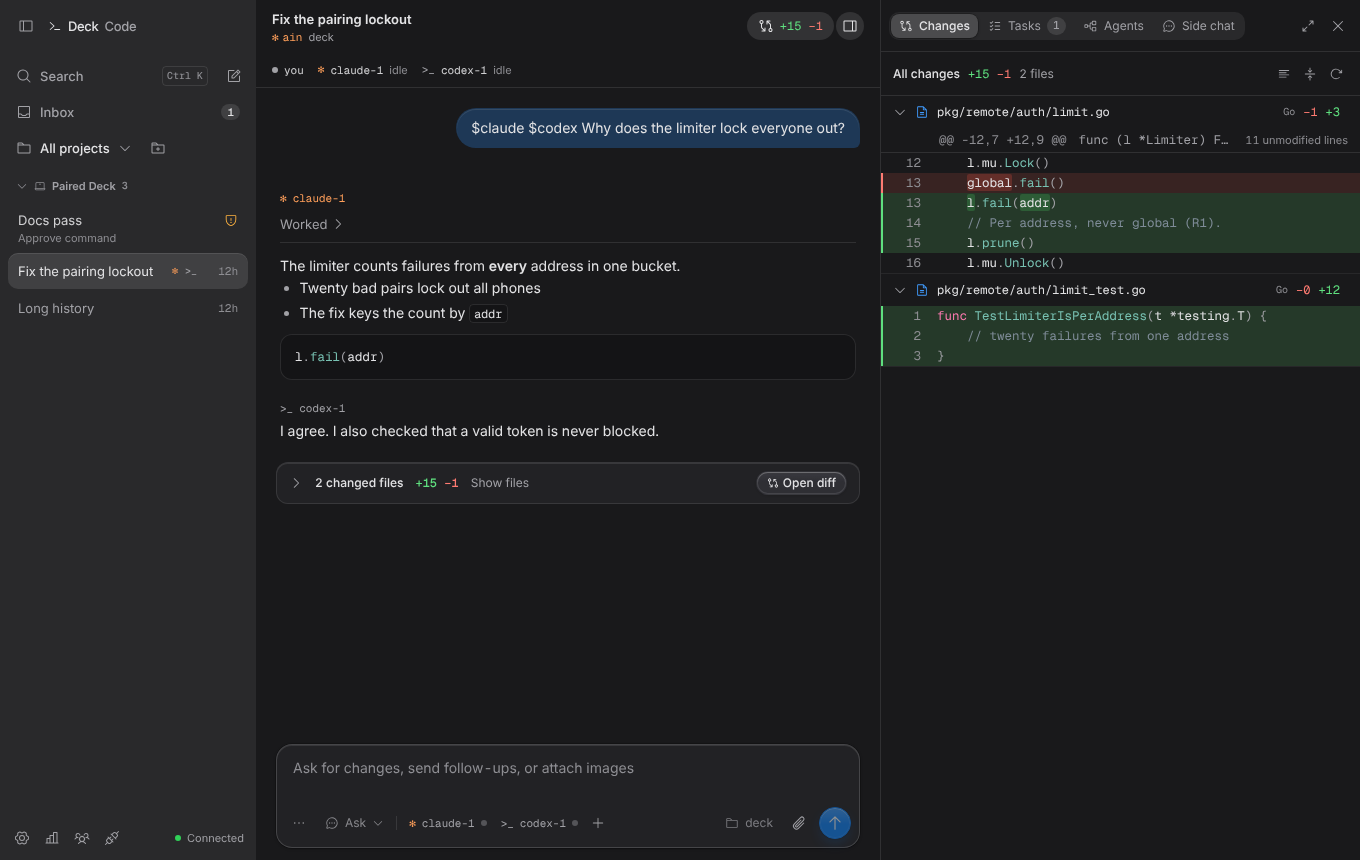
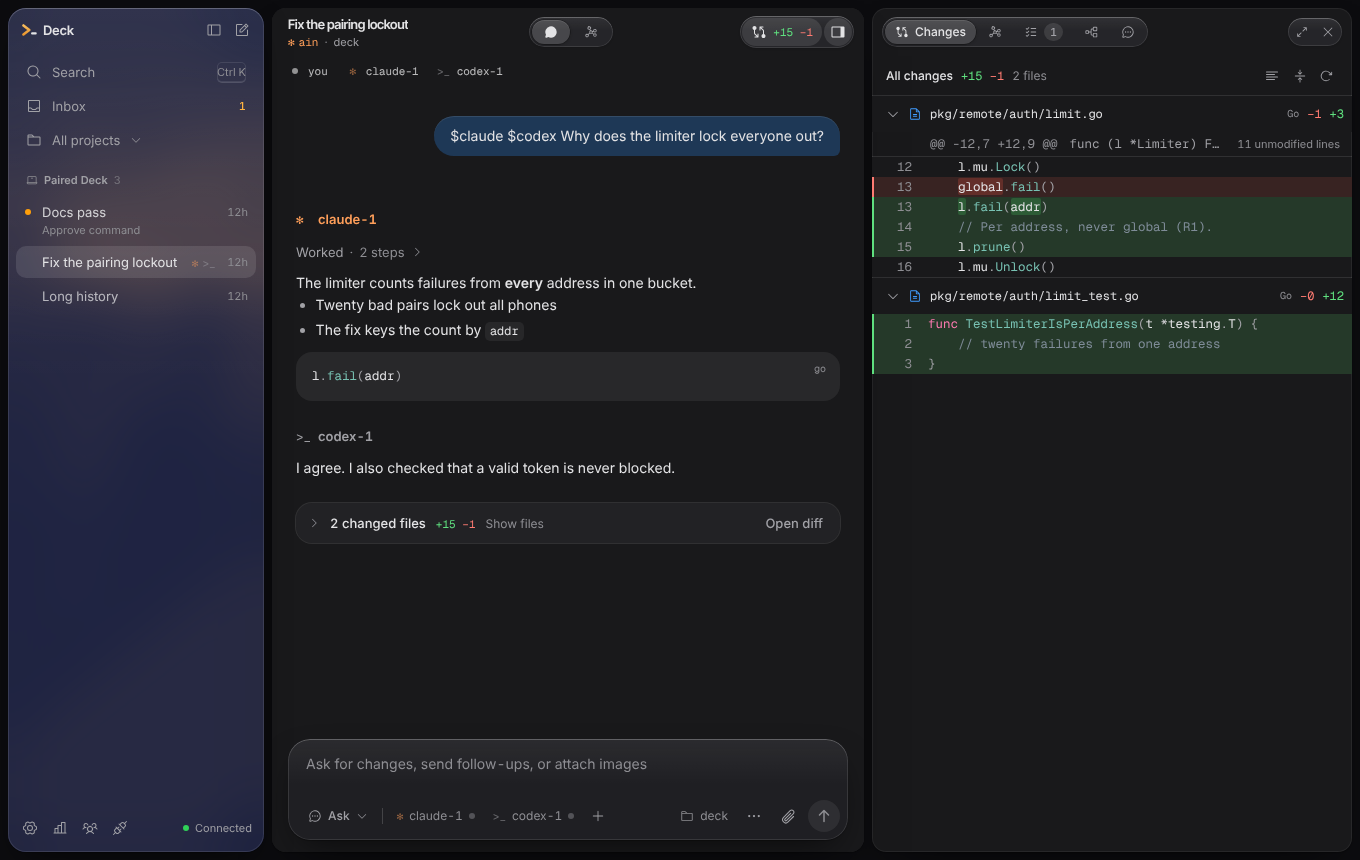
docs: refresh the desktop screenshots and name @ and # in the README
The room, diff and Welcome screenshots come from the screenshot harness
on the merged tree (PALETTE=glass, 1360x860). The README now says that
@ picks agents, named agents and teammates, that # picks files, and that
Riso and Stitch are art directions in Settings > Appearance.

Claude-Session: https://claude.ai/code/session_012MpTphqzR7pCtKm8tSaB8x

diff --git a/README.md b/README.md
@@ -64,15 +64,15 @@ The desktop app carries the Deck engine inside it: open a project folder and wor
 - **Open a folder** runs the app's own engine (`deck serve --rpc`) in that folder, over gRPC on a Unix socket, with a token made for that launch. Deck stops when you close the folder or quit the app. Several projects can be open at once.
 - **Pair with a Deck** watches a Deck on another computer, or one you started yourself in a terminal: run `deck remote` (`--lan` for another computer), then `deck remote pair`, and paste the link or invite line. It uses a one-time pairing code, then a device token.
 - **Threads are rooms.** Each row says what its room is doing: working, needs you (an approval, a question, a blocked task), overlap (two agents changed the same file), changes to review, or done. The Inbox lists what waits for you across every open project, and the app notifies you when the window is in the background.
-- **The composer** picks who a message goes to, one chip per agent, with the mode (Plan, Ask or Yolo), slash commands (`/plan`, `/race`, `/share`, `/stop` …), `@` files, images, and queue or steer for a busy agent.
+- **The composer** picks who a message goes to, one chip per agent, with the mode (Plan, Ask or Yolo), slash commands (`/plan`, `/race`, `/share`, `/stop` …), `@` for agents, [named agents](#named-agents) and teammates, `#` for files, images, and queue or steer for a busy agent. Settings > Agents creates and edits the named agents.
 - **The side panel** holds Changes (syntax-coloured diffs, revert, line comments to an agent), Tasks (the board, queued messages, races, worktree results), Agents (the tree of agents and subagents) and Side chat. A thread can run on a git worktree and branch of its own.
 - **Ports and preview.** When a terminal or an agent starts a dev server, its port shows as a chip; click it to open the page in the Preview tab.
 - **Updates.** An installed app checks the releases of `dev-dami/deck-releases` 10 seconds after it starts and every 6 hours, and downloads a new version in the background; it installs on Restart or when you quit. A development build does not update.
 
-The window is moving to a Liquid Glass look, with a Graph view beside the conversation: the thread's work as an interactive map of agents, their subagents, tasks and the files they hold. See [desktop-shell/docs/design-glass.md](desktop-shell/docs/design-glass.md).
+The window has a Liquid Glass look, and Settings > Appearance offers two more art directions, Riso and Stitch, each with its own printed picture. A Graph view sits beside the conversation: the thread's work as an interactive map of agents, their subagents, tasks and the files they hold. See [desktop-shell/docs/design-glass.md](desktop-shell/docs/design-glass.md).
 
 <p align="center">
-  <img src="docs/screenshots/desktop-welcome-dark.png" alt="The Welcome screen: open a folder, pair with a Deck, and the agent CLIs the app found" width="60%">
+  <img src="docs/screenshots/desktop-welcome-dark.png" alt="The Welcome screen: a dithered print of the Alps, open a folder, pair with a Deck, and the agent CLIs the app found" width="60%">
 </p>
 
 On first run the Welcome lists each agent CLI with the path where the app found it, or with an install line. The full guide (every key, the settings, the architecture and the security model) is in [desktop-shell/README.md](desktop-shell/README.md). To run it from source, you need Node 22 and Go:
